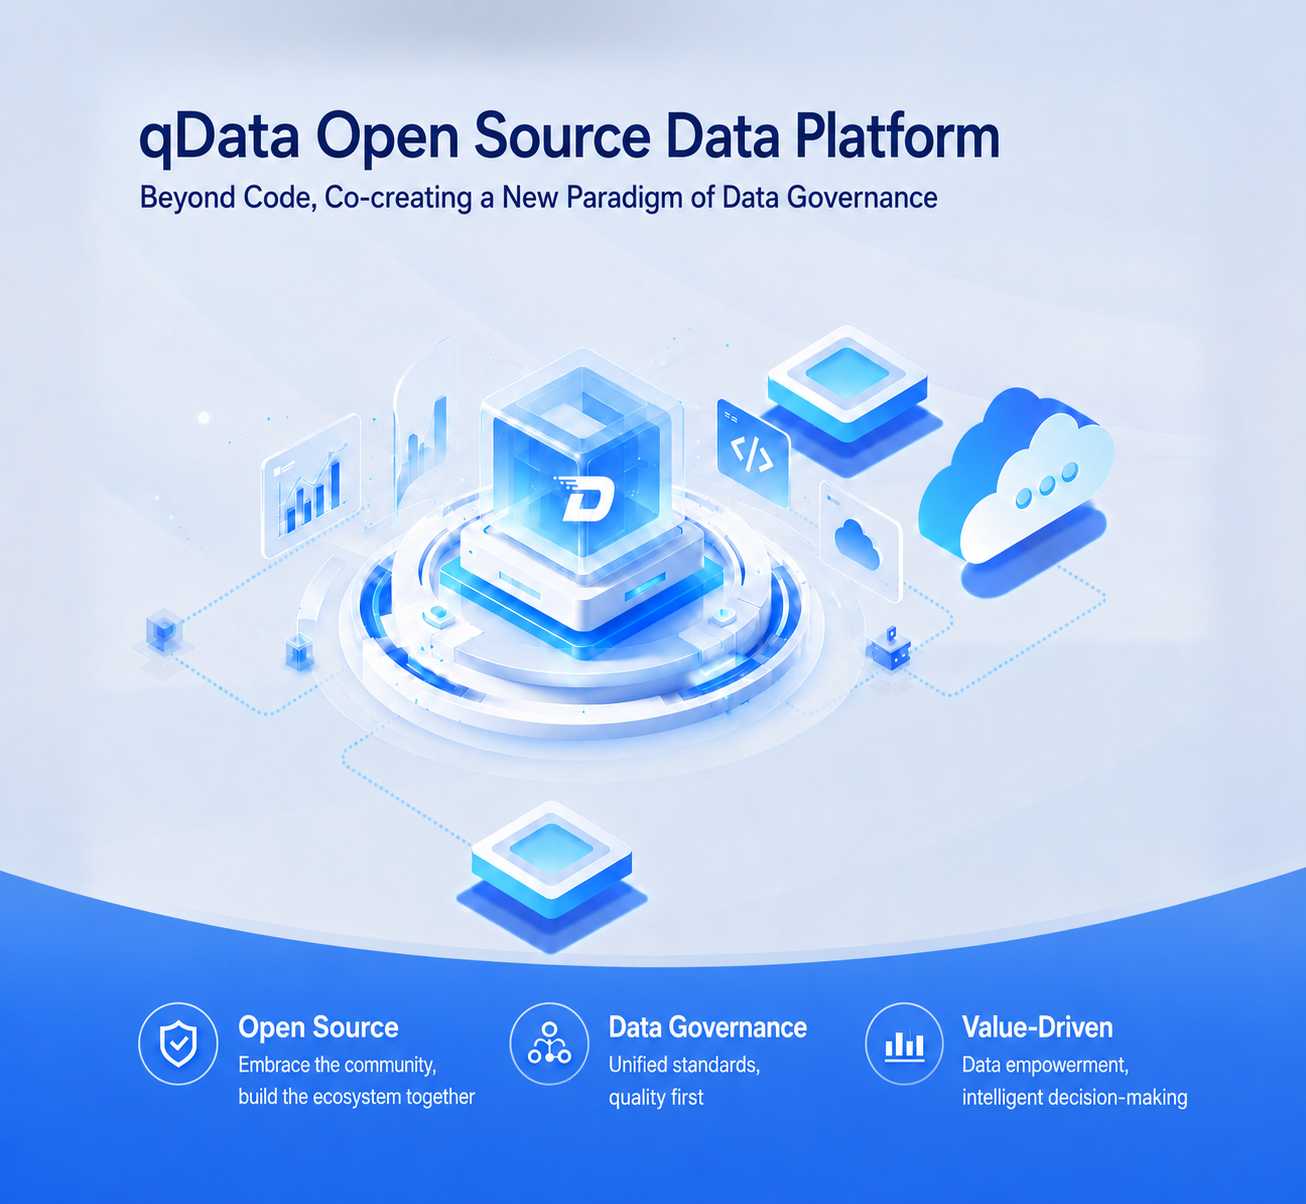
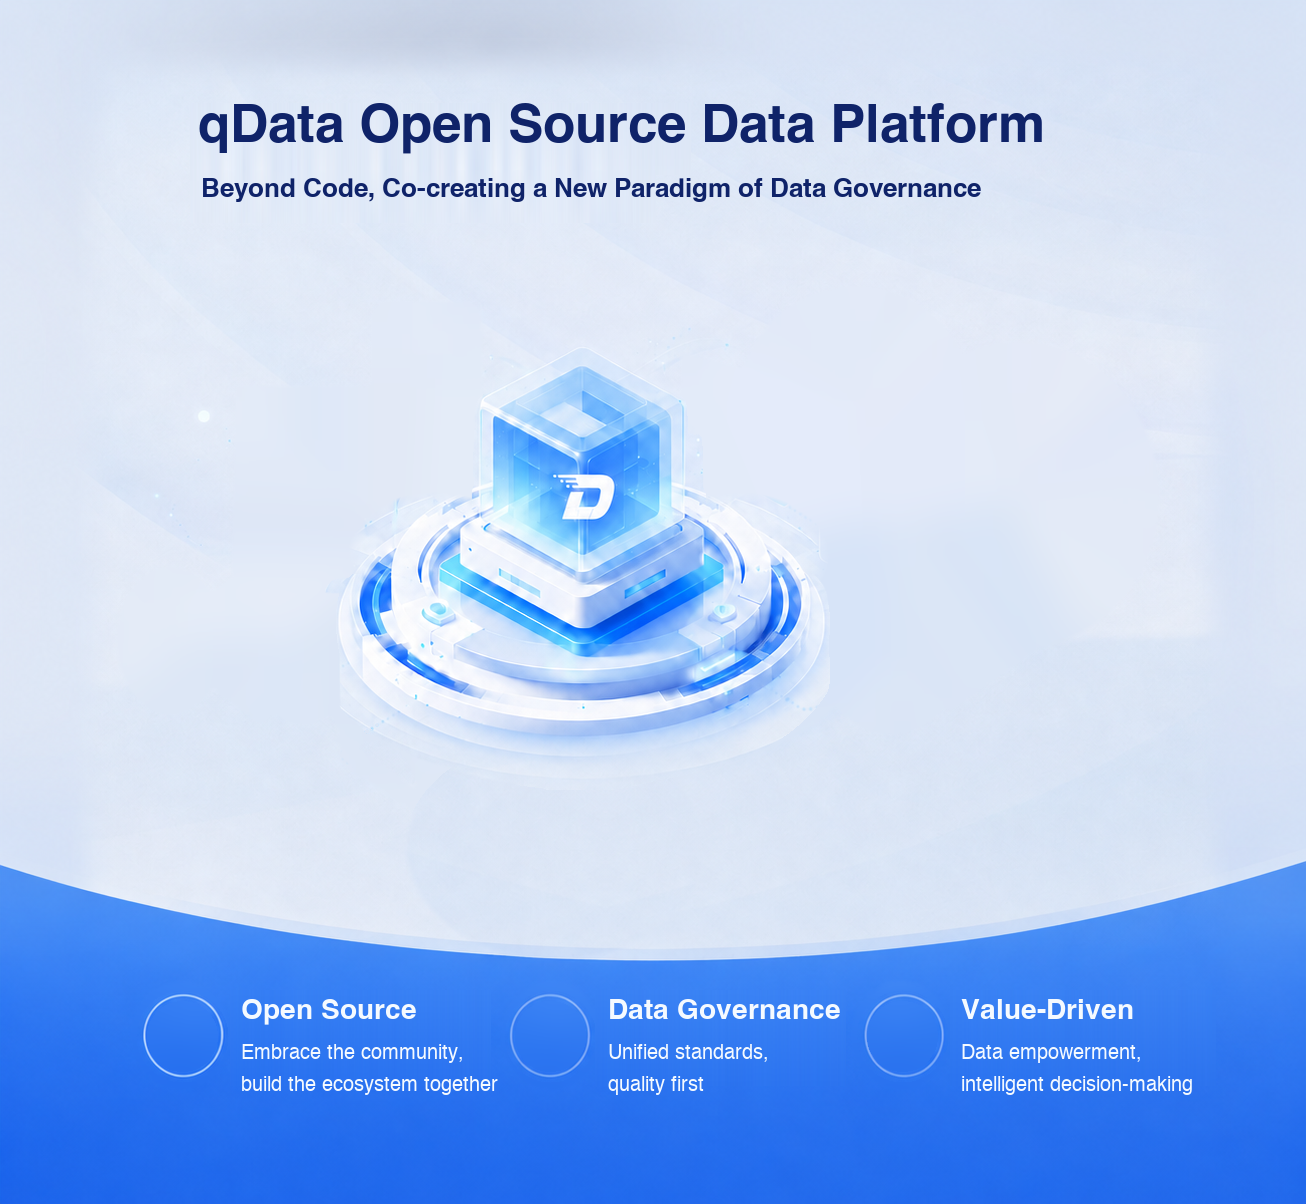
chore:login animation effect

diff --git a/qdata-ui/src/views/sys/login.vue b/qdata-ui/src/views/sys/login.vue
@@ -27,10 +27,128 @@
                     <!--              <div :class="'swiper-slide swiper-slide-'+item.id"></div>-->
                     <!--            </el-carousel-item>-->
                     <!--          </el-carousel>-->
+                  <el-carousel class="login-carousel" arrow="never" autoplay indicator-position="none">
+                    <el-carousel-item v-for="(item, index) in loginimglist" :key="index">
+                      <div v-if="item.animated" class="swiper-slide qdata-scene">
+                        <svg
+                            class="qdata-scene__canvas"
+                            viewBox="0 0 1305 1206"
+                            preserveAspectRatio="xMidYMid slice"
+                            aria-hidden="true"
+                        >
+                          <defs>
+                            <clipPath id="left-node-only" clipPathUnits="userSpaceOnUse">
+                              <rect x="135" y="620" width="56" height="72"/>
+                            </clipPath>
+                            <radialGradient id="cloud-route-orb" cx="50%" cy="50%" r="50%">
+                              <stop offset="0%" stop-color="#ffffff" stop-opacity="1"/>
+                              <stop offset="35%" stop-color="#bff4ff" stop-opacity="0.95"/>
+                              <stop offset="100%" stop-color="#25b9ff" stop-opacity="0"/>
+                            </radialGradient>
+                            <path
+                                id="cloud-route-path"
+                                d="M 1060 545 L 1108 573 Q 1120 580 1108 588 L 879 750 Q 865 760 852 751 L 750 682"
+                            />
+                            <path
+                                id="left-route-upper-path"
+                                d="M 212 650 L 350 568"
+                            />
+                            <path
+                                id="left-route-lower-path"
+                                d="M 232 670 L 329 737 Q 340 745 351 738 L 365 730 L 400 708"
+                            />
+                            <path
+                                id="left-route-orb-path"
+                                d="M 400 708 L 365 730 L 351 738 Q 340 745 329 737 L 232 670 L 212 650 L 350 568"
+                            />
+                            <path
+                                id="bottom-chip-route-path"
+                                d="M 440 724 L 397 749 Q 385 755 398 762 L 605 885"
+                            />
+                            <path
+                                id="bottom-chip-orb-path"
+                                d="M 625 885 L 398 762 Q 385 755 397 749 L 445 724"
+                            />
+                          </defs>
+                          <image :href="item.image" x="0" y="0" width="1305" height="1206"/>
 
-                    <el-carousel style="width: 100%; heght: 100%" arrow="never" autoplay indicator-position="none">
-                        <el-carousel-item v-for="(item, index) in loginimglist" :key="index">
-                            <div class="swiper-slide" :style="getBackgroundStyle(item)"></div>
+                          <g class="qdata-scene__left-routes">
+                            <use href="#left-route-upper-path"/>
+                            <use href="#left-route-lower-path"/>
+                            <use href="#bottom-chip-route-path"/>
+                          </g>
+
+                          <use
+                              class="qdata-scene__cloud-route"
+                              href="#cloud-route-path"
+                          />
+
+                          <g class="qdata-scene__route-orb">
+                            <circle class="qdata-scene__route-orb-halo" r="9"/>
+                            <circle class="qdata-scene__route-orb-core" r="3"/>
+                            <animateMotion
+                                dur="4.8s"
+                                repeatCount="indefinite"
+                            >
+                              <mpath href="#cloud-route-path"/>
+                            </animateMotion>
+                            <animate
+                                attributeName="opacity"
+                                values="0;1;1;0"
+                                keyTimes="0;0.08;0.9;1"
+                                dur="4.8s"
+                                repeatCount="indefinite"
+                            />
+                          </g>
+
+                          <g class="qdata-scene__route-orb qdata-scene__left-route-orb">
+                            <circle class="qdata-scene__route-orb-halo" r="9"/>
+                            <circle class="qdata-scene__route-orb-core" r="3"/>
+                            <animateMotion dur="5.2s" repeatCount="indefinite">
+                              <mpath href="#left-route-orb-path"/>
+                            </animateMotion>
+                            <animate
+                                attributeName="opacity"
+                                values="0;1;1;0"
+                                keyTimes="0;0.08;0.9;1"
+                                dur="5.2s"
+                                repeatCount="indefinite"
+                            />
+                          </g>
+
+                          <g class="qdata-scene__route-orb qdata-scene__bottom-route-orb">
+                            <circle class="qdata-scene__route-orb-halo" r="9"/>
+                            <circle class="qdata-scene__route-orb-core" r="3"/>
+                            <animateMotion dur="4s" repeatCount="indefinite">
+                              <mpath href="#bottom-chip-orb-path"/>
+                            </animateMotion>
+                            <animate
+                                attributeName="opacity"
+                                values="0;1;1;0"
+                                keyTimes="0;0.08;0.9;1"
+                                dur="4.6s"
+                                repeatCount="indefinite"
+                            />
+                          </g>
+
+                          <image
+                              v-for="sceneItem in sceneItems"
+                              :key="sceneItem.name"
+                              :href="sceneItem.src"
+                              :x="sceneItem.x"
+                              :y="sceneItem.y"
+                              :width="sceneItem.width"
+                              :height="sceneItem.height"
+                              :clip-path="sceneItem.clipPath"
+                              :class="['qdata-scene__item', `qdata-scene__item--${sceneItem.motion}`]"
+                              :style="{
+                                            '--float-duration': sceneItem.duration,
+                                            '--float-delay': sceneItem.delay
+                                        }"
+                          />
+                        </svg>
+                      </div>
+                      <div v-else class="swiper-slide" :style="getBackgroundStyle(item)"></div>
                         </el-carousel-item>
                     </el-carousel>
                 </div>
@@ -256,6 +374,19 @@ import { useLocaleImage } from '@/composables/useLocaleImage';
 import { useTimeGreeting } from '@/composables/useTimeGreeting';
 import { getContent } from '@/api/system/system/content';
 import defaultLogo from '@/assets/images/system/login/logo-qdata.png';
+import analyticsCard from '@/assets/images/system/login/qdata-scene/analytics-card.png';
+import skylineCard from '@/assets/images/system/login/qdata-scene/data-skyline-card.png';
+import codeCard from '@/assets/images/system/login/qdata-scene/code-card.png';
+import cloudCard from '@/assets/images/system/login/qdata-scene/cloud-card.png';
+import largeCloud from '@/assets/images/system/login/qdata-scene/large-cloud.png';
+import topChip from '@/assets/images/system/login/qdata-scene/chip-bottom.png';
+import bottomChip from '@/assets/images/system/login/qdata-scene/chip-bottom.png';
+import leftNode from '@/assets/images/system/login/qdata-scene/network-node-left.png';
+import lowerLeftNode from '@/assets/images/system/login/qdata-scene/network-node-lower-left.png';
+import rightNode from '@/assets/images/system/login/qdata-scene/network-node-right.png';
+import opennessIcon from '@/assets/images/system/login/qdata-scene/openness-shield-no-border.png';
+import governanceIcon from '@/assets/images/system/login/qdata-scene/governance-network-no-border.png';
+import valueIcon from '@/assets/images/system/login/qdata-scene/value-bars-no-border.png';
 
 const { td } = useDefaultLang();
 const { changeLocale } = useLocale();
@@ -291,8 +422,24 @@ const fpForm = ref({
     password2: '',
     code: ''
 });
+const sceneItems = [
+    { name: 'analytics', src: analyticsCard, x: 240, y: 462, width: 132, height: 177, motion: 'a', duration: '7.9s', delay: '-2.4s' },
+    { name: 'skyline', src: skylineCard, x: 355, y: 345, width: 93, height: 216, motion: 'b', duration: '9.7s', delay: '-5.1s' },
+    { name: 'top-chip', src: topChip, x: 760, y: 345, width: 179, height: 135, motion: 'f', duration: '8.9s', delay: '-4.6s' },
+    { name: 'code', src: codeCard, x: 701, y: 385, width: 102, height: 145, motion: 'c', duration: '8.6s', delay: '-1.3s' },
+    { name: 'cloud-card', src: cloudCard, x: 805, y: 455, width: 117, height: 162, motion: 'd', duration: '10.8s', delay: '-6.7s' },
+    { name: 'large-cloud', src: largeCloud, x: 909, y: 365, width: 226, height: 243, motion: 'e', duration: '11.9s', delay: '-3.8s' },
+    { name: 'bottom-chip', src: bottomChip, x: 454, y: 775, width: 215, height: 181, motion: 'c', duration: '12.7s', delay: '-8.2s' },
+    { name: 'left-node', src: leftNode, x: 180, y: 600, width: 94, height: 113, motion: 'static', duration: '0s', delay: '0s' },
+    { name: 'lower-left-node', src: lowerLeftNode, x: 285, y: 620, width: 91, height: 131, motion: 'static', duration: '0s', delay: '0s' },
+    { name: 'right-node', src: rightNode, x: 800, y: 684, width: 131, height: 148, motion: 'static', duration: '0s', delay: '0s' },
+    { name: 'openness', src: opennessIcon, x: 138, y: 992, width: 90, height: 93, motion: 'vertical-a', duration: '9.8s', delay: '-3.3s' },
+    { name: 'governance', src: governanceIcon, x: 505, y: 989, width: 90, height: 100, motion: 'vertical-b', duration: '11.4s', delay: '-6.1s' },
+    { name: 'value', src: valueIcon, x: 852, y: 984, width: 120, height: 100, motion: 'vertical-c', duration: '6.3s', delay: '-10.2s' }
+];
+
 const defaltImglist = ref([
-    { id: 1, image: getImage('login/banner-zt.png') },
+    { id: 1, image: getImage('login/banner-zt.png'), animated: true },
 ]);
 const loginimglist = ref([]);
 
@@ -326,7 +473,7 @@ const fetchContent = async () => {
             contentDetail.value = data;
             const sysLogo = data.loginLogo;
             logo.value = sysLogo ? sysLogo : defaultLogo;
-            const carouselImageList = data.carouselImage.splitd(',');
+            const carouselImageList = data.carouselImage ? data.carouselImage.split(',') : [];
             const carouselImgList = [];
             for (let i = 0; i <= carouselImageList.length; i++) {
                 let item = carouselImageList[i];
@@ -661,6 +808,87 @@ function goKtPage() {
             width: 100%;
             height: 100%;
 
+            .swiper-wrapper,
+            .login-carousel,
+            .swiper-slide {
+                width: 100%;
+                height: 100%;
+            }
+
+            ::v-deep(.el-carousel__container),
+            ::v-deep(.el-carousel__item) {
+                height: 100%;
+            }
+
+            .qdata-scene {
+                position: relative;
+                overflow: hidden;
+                background: #eaf3ff;
+            }
+
+            .qdata-scene__canvas {
+                display: block;
+                width: 100%;
+                height: 100%;
+            }
+
+            .qdata-scene__cloud-route {
+                fill: none;
+                stroke: rgba(70, 196, 255, 0.68);
+                stroke-width: 2.2;
+                stroke-linecap: round;
+                stroke-linejoin: round;
+                stroke-dasharray: 1 5;
+                filter: drop-shadow(0 0 1px rgba(60, 190, 255, 0.2));
+            }
+
+            .qdata-scene__left-routes {
+                fill: none;
+                stroke: rgba(70, 196, 255, 0.68);
+                stroke-width: 2.2;
+                stroke-linecap: round;
+                stroke-linejoin: round;
+                stroke-dasharray: 1 5;
+                filter: drop-shadow(0 0 1px rgba(60, 190, 255, 0.2));
+            }
+
+            .qdata-scene__route-orb {
+                pointer-events: none;
+                filter: drop-shadow(0 0 5px rgba(65, 205, 255, 0.95));
+            }
+
+            .qdata-scene__route-orb-halo {
+                fill: url(#cloud-route-orb);
+            }
+
+            .qdata-scene__route-orb-core {
+                fill: #ffffff;
+                stroke: rgba(151, 235, 255, 0.95);
+                stroke-width: 1.5;
+            }
+
+            .qdata-scene__item {
+                pointer-events: none;
+                transform-box: fill-box;
+                transform-origin: center;
+                will-change: transform;
+                animation-duration: var(--float-duration);
+                animation-delay: var(--float-delay);
+                animation-timing-function: cubic-bezier(0.45, 0.05, 0.55, 0.95);
+                animation-iteration-count: infinite;
+                animation-direction: alternate;
+            }
+
+            .qdata-scene__item--a { animation-name: qdata-float-a; }
+            .qdata-scene__item--b { animation-name: qdata-float-b; }
+            .qdata-scene__item--c { animation-name: qdata-float-c; }
+            .qdata-scene__item--d { animation-name: qdata-float-d; }
+            .qdata-scene__item--e { animation-name: qdata-float-e; }
+            .qdata-scene__item--f { animation-name: qdata-float-f; }
+            .qdata-scene__item--vertical-a { animation-name: qdata-float-vertical-a; }
+            .qdata-scene__item--vertical-b { animation-name: qdata-float-vertical-b; }
+            .qdata-scene__item--vertical-c { animation-name: qdata-float-vertical-c; }
+
             .swiper-imagesize {
                 width: 100%;
                 height: 100%;
@@ -831,6 +1059,90 @@ function goKtPage() {
                 align-items: center;
             }
         }
+    }
+}
+
+@keyframes qdata-float-a {
+    0% { transform: translateY(0); }
+    19% { transform: translateY(-7px); }
+    47% { transform: translateY(-2px); }
+    73% { transform: translateY(5px); }
+    100% { transform: translateY(-5px); }
+}
+
+@keyframes qdata-float-b {
+    0% { transform: translateY(0); }
+    23% { transform: translateY(3px); }
+    51% { transform: translateY(-6px); }
+    78% { transform: translateY(2px); }
+    100% { transform: translateY(6px); }
+}
+
+@keyframes qdata-float-c {
+    0% { transform: translateY(0); }
+    17% { transform: translateY(6px); }
+    42% { transform: translateY(-3px); }
+    69% { transform: translateY(-7px); }
+    100% { transform: translateY(3px); }
+}
+
+@keyframes qdata-float-d {
+    0% { transform: translateY(0); }
+    28% { transform: translateY(-5px); }
+    55% { transform: translateY(-1px); }
+    81% { transform: translateY(6px); }
+    100% { transform: translateY(2px); }
+}
+
+@keyframes qdata-float-e {
+    0% { transform: translateY(0); }
+    21% { transform: translateY(4px); }
+    49% { transform: translateY(7px); }
+    76% { transform: translateY(-4px); }
+    100% { transform: translateY(-6px); }
+}
+
+@keyframes qdata-float-f {
+    0% { transform: translateY(0); }
+    16% { transform: translateY(5px); }
+    38% { transform: translateY(-2px); }
+    67% { transform: translateY(-6px); }
+    86% { transform: translateY(3px); }
+    100% { transform: translateY(6px); }
+}
+
+@keyframes qdata-float-vertical-a {
+    0% { transform: translateY(0); }
+    18% { transform: translateY(-3px); }
+    43% { transform: translateY(2px); }
+    71% { transform: translateY(-4px); }
+    100% { transform: translateY(1px); }
+}
+
+@keyframes qdata-float-vertical-b {
+    0% { transform: translateY(0); }
+    24% { transform: translateY(3px); }
+    52% { transform: translateY(-4px); }
+    79% { transform: translateY(1px); }
+    100% { transform: translateY(-4px); }
+}
+
+@keyframes qdata-float-vertical-c {
+    0% { transform: translateY(0); }
+    16% { transform: translateY(-1px); }
+    39% { transform: translateY(3px); }
+    68% { transform: translateY(-4px); }
+    87% { transform: translateY(1px); }
+    100% { transform: translateY(-2px); }
+}
+
+@media (prefers-reduced-motion: reduce) {
+    .login-two .qdata-scene__item {
+        animation: none;
+    }
+
+    .login-two .qdata-scene__route-orb {
+        display: none;
     }
 }
 </style>
